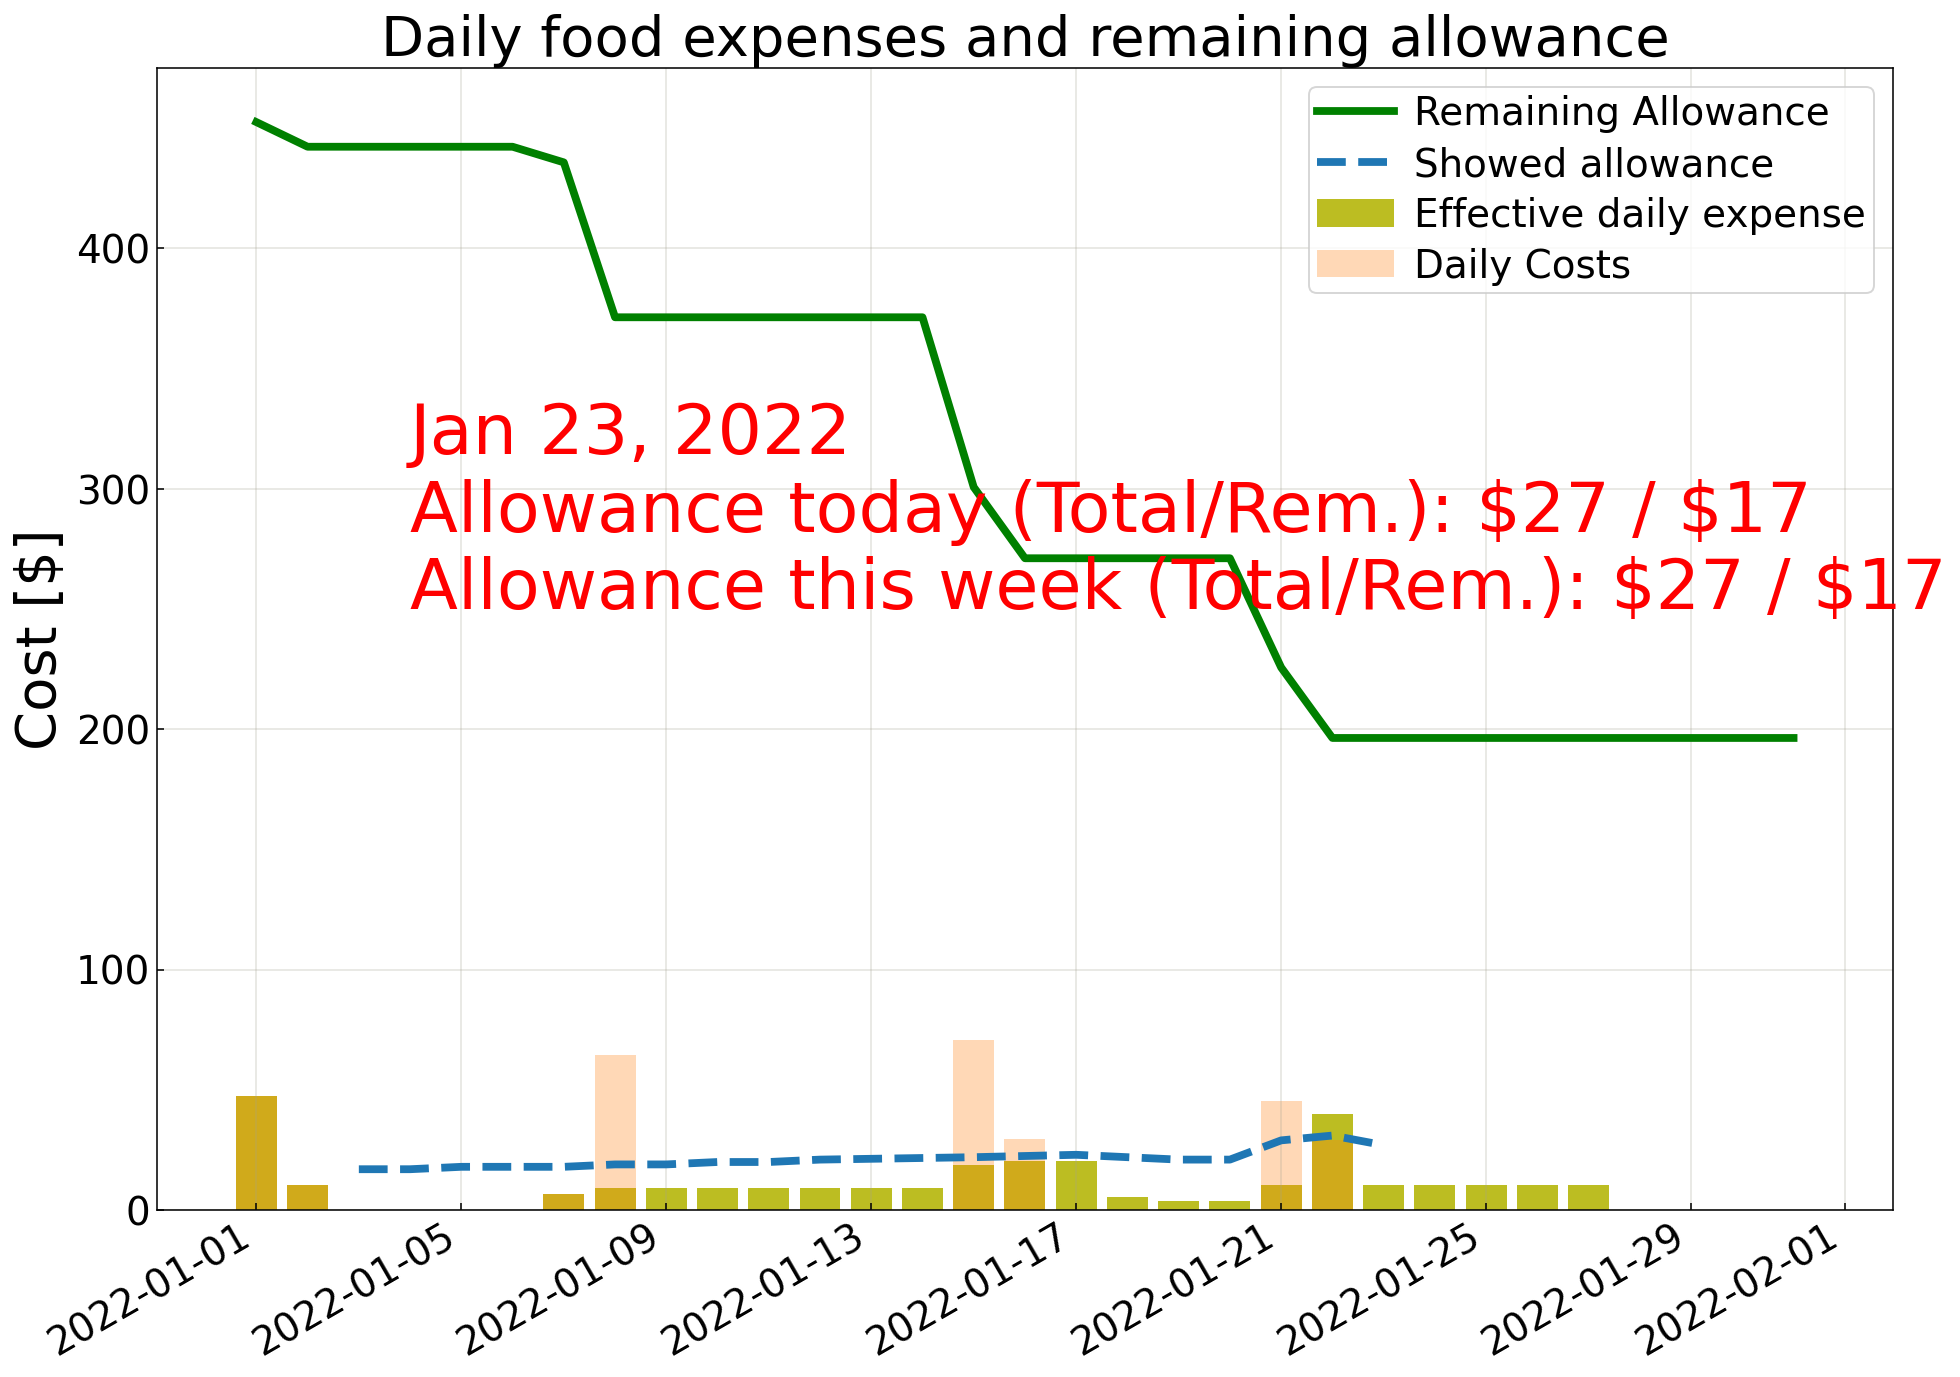
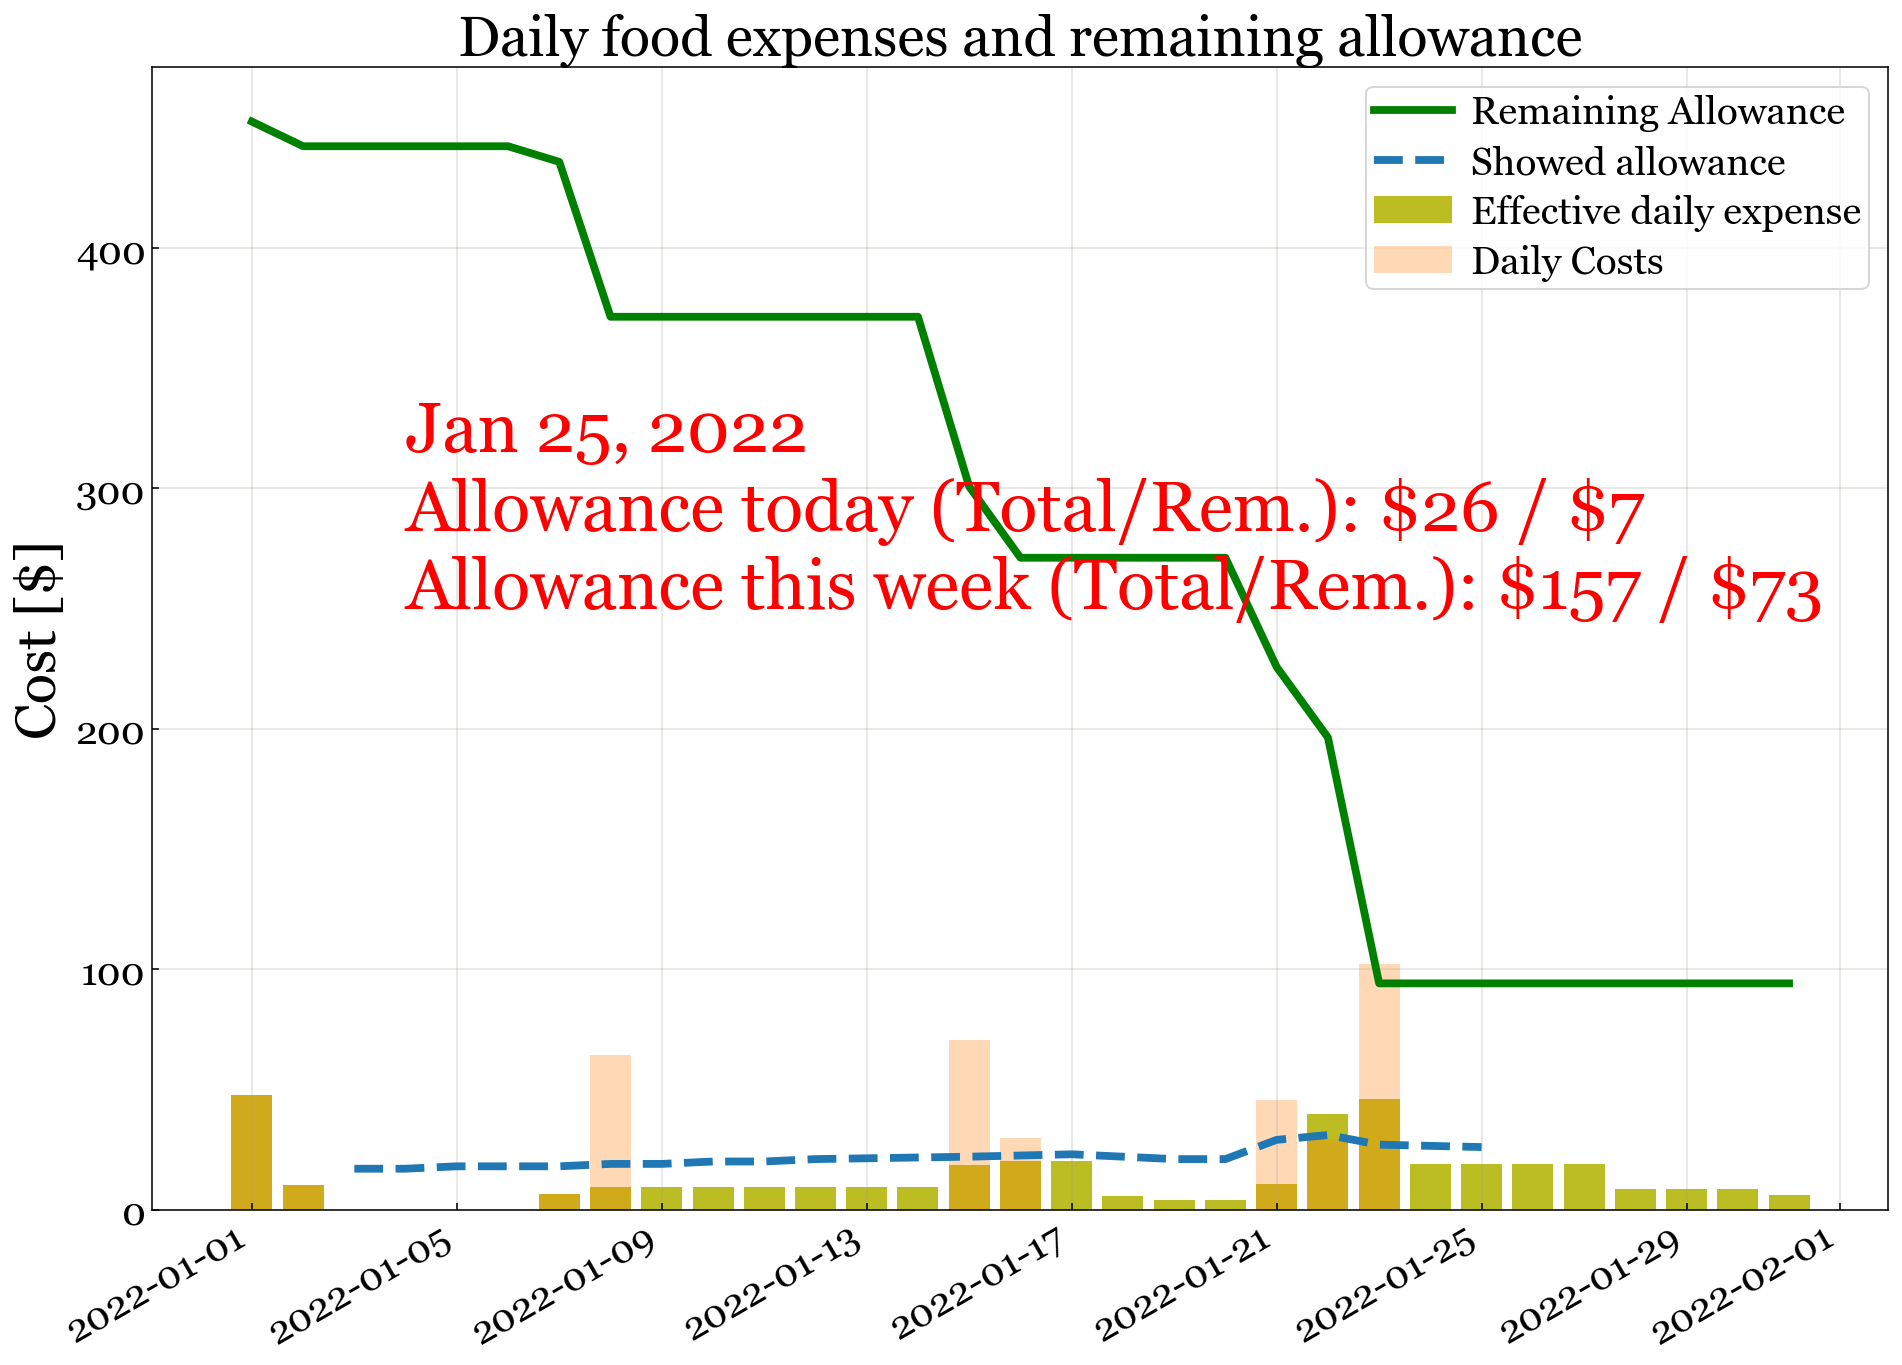
Corrected bug

diff --git a/foodExpenses.py b/foodExpenses.py
@@ -89,6 +89,7 @@ def foodExpenses():
     dailyCosts = np.zeros(len(tt))
     perDiumCost = np.zeros_like(dailyCosts)
     todayInd = today.day - 1
+    weekEndInd = min(todayInd + 7 - today.weekday(), len(tt))
     for ii in range(noEntries):
         if today.month == dates[ii].month:
             ttind = dates[ii].day - 1
@@ -100,7 +101,7 @@ def foodExpenses():
     thisWeekAllow = todayAllowance * (7 - today.weekday())
     todayRemAllow = todayAllowance - perDiumCost[todayInd]
     thisWeekRemAllow = (thisWeekAllow
-                        - perDiumCost[todayInd:todayInd + 7 - today.weekday()])
+                        - np.sum(perDiumCost[todayInd:weekEndInd]))
 
     with open('showedAllowance.txt', 'r') as f:
         allLines = f.readlines()
